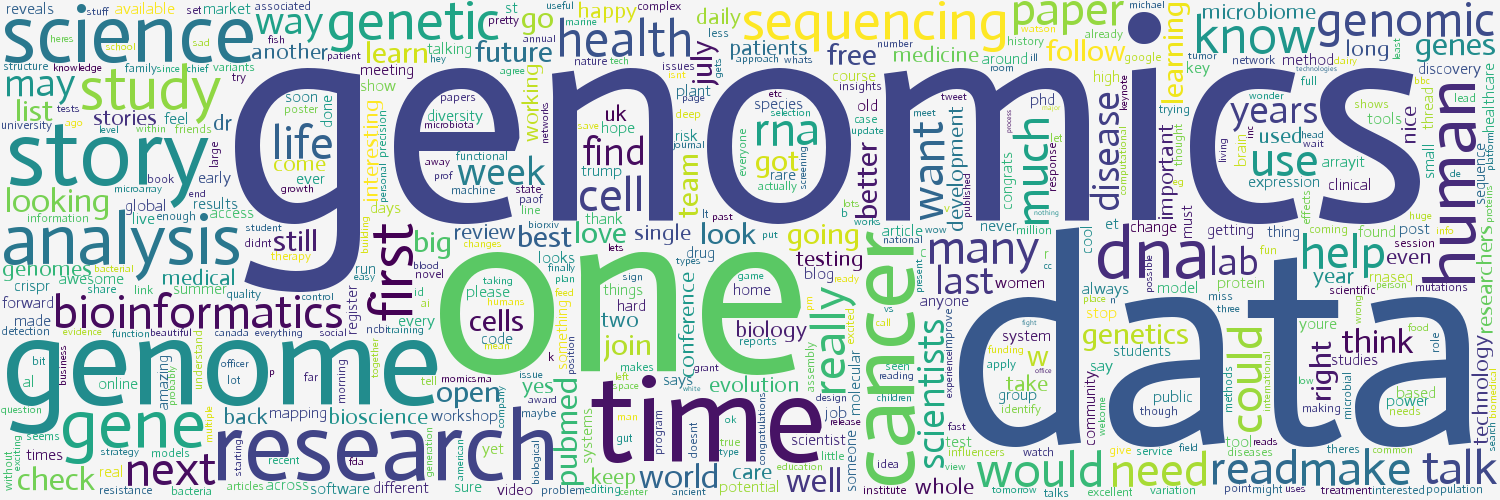
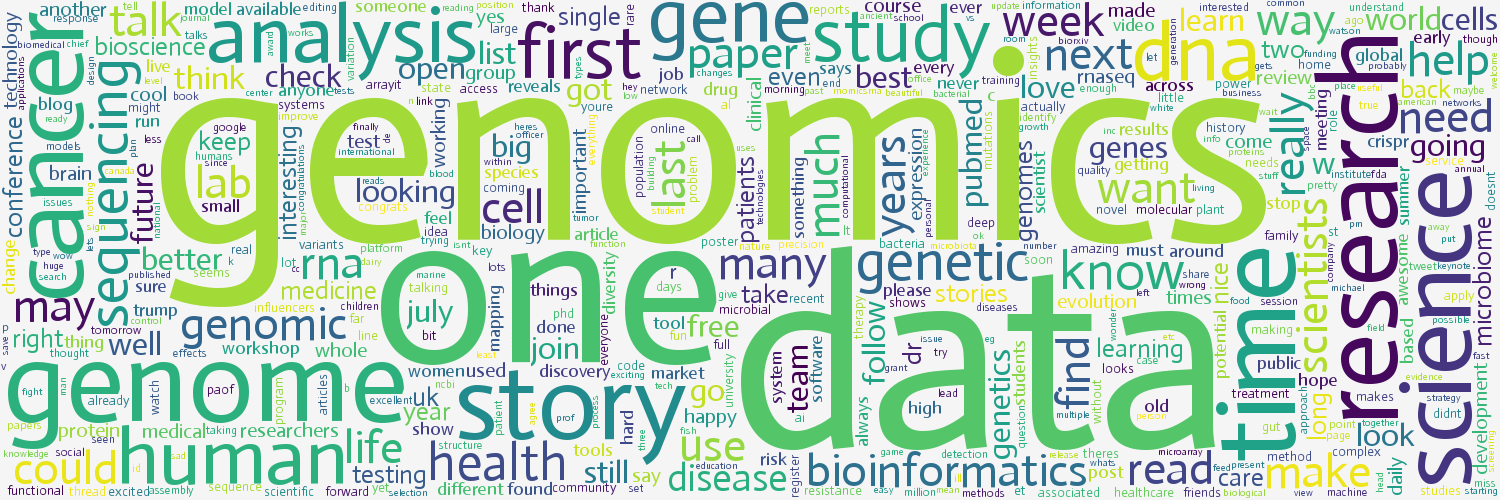
July2017

diff --git a/main.py b/main.py
@@ -55,7 +55,7 @@ for row in c.execute('SELECT * FROM tweetscapture ORDER BY Date DESC'):
         tweetText = tweet_clean(row[4].lower())
         stopWords = list(stopwords.words("english"))
         myStopWords = ['also', 'bad', 'cant', 'dont', 'day', 'great', 'get', 'good', 'hear', 'here', 'ive', 'im', 'like', 'latest', 'new', 'news', 'oh',
-                       'people', 'see', 'today', 'top', 'th', 'twitter', 'thats', 'thanks', 'us', 'using', 'work', 'x']
+                       'people', 'see', 'today', 'top', 'th', 'twitter', 'thats', 'thanks', 'us', 'using', 'work', 'would','x']
         stopWords = stopWords + myStopWords
         words = word_tokenize(tweetText)
         tagged = pos_tag(words)
